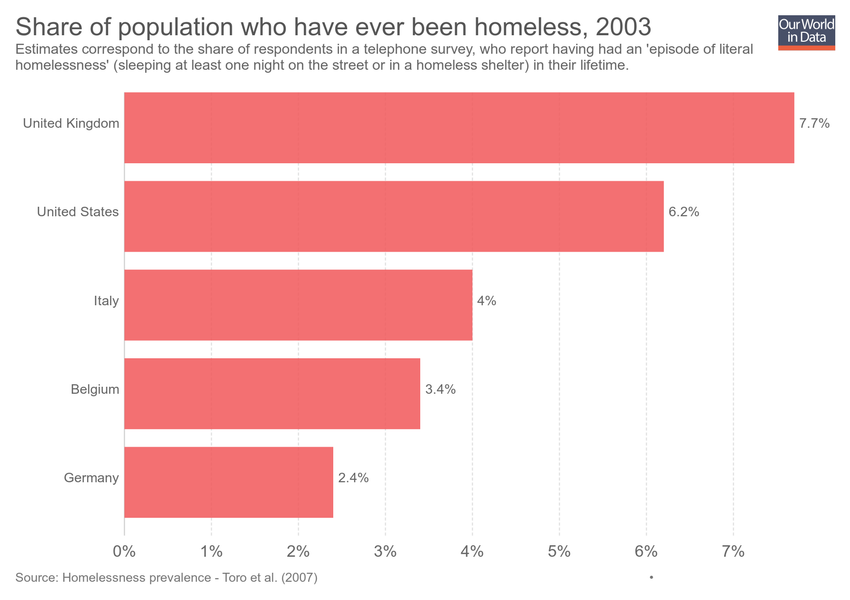
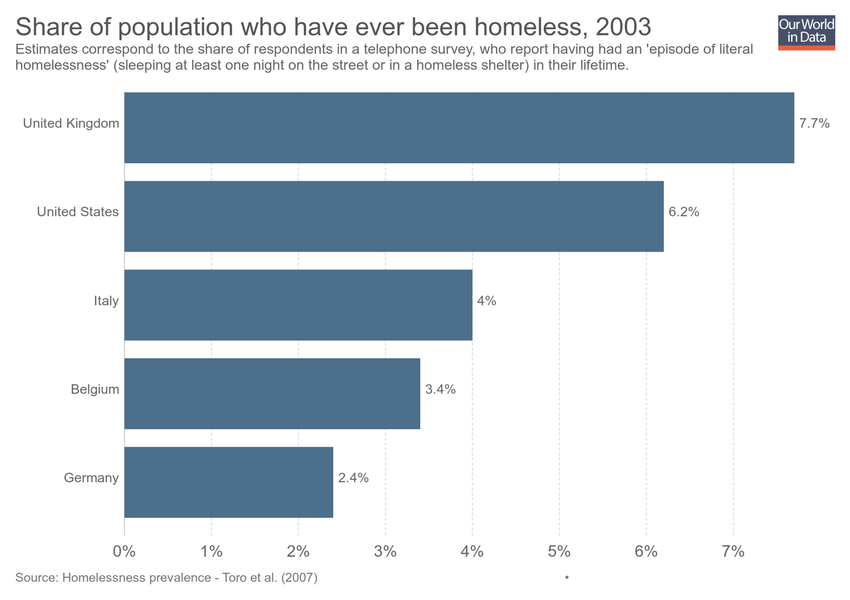
Updating chart share-of-population-who-have-ever-been-homeless-2003

Changed region(s): [[0.1224, 0.15, 0.9482, 0.42], [0.1224, 0.45, 0.5812, 0.87]]

diff --git a/grapher/share-of-population-who-have-ever-been-homeless-2003.html b/grapher/share-of-population-who-have-ever-been-homeless-2003.html
@@ -1,4 +1,4 @@
-<!doctype html><html><head><meta name="viewport" content="width=device-width, initial-scale=1" /><title>Share of population who have ever been homeless, 2003 - Our World in Data</title><meta name="description" content="Estimates correspond to the share of respondents in a telephone survey, who report having had an 'episode of literal homelessness' (sleeping at least one night on the street or in a homeless shelter) in their lifetime." /><link rel="canonical" href="https://ourworldindata.org/grapher/share-of-population-who-have-ever-been-homeless-2003" /><meta property="fb:app_id" content="1149943818390250" /><meta property="og:url" content="https://ourworldindata.org/grapher/share-of-population-who-have-ever-been-homeless-2003" /><meta property="og:title" content="Share of population who have ever been homeless, 2003" /><meta property="og:description" content="Estimates correspond to the share of respondents in a telephone survey, who report having had an 'episode of literal homelessness' (sleeping at least one night on the street or in a homeless shelter) in their lifetime." /><meta property="og:image" content="https://ourworldindata.org/grapher/exports/share-of-population-who-have-ever-been-homeless-2003.png?v=1" /><meta property="og:image:width" content="850" /><meta property="og:image:height" content="600" /><meta property="og:site_name" content="Our World in Data" /><meta name="twitter:card" content="summary_large_image" /><meta name="twitter:site" content="@OurWorldInData" /><meta name="twitter:creator" content="@OurWorldInData" /><meta name="twitter:title" content="Share of population who have ever been homeless, 2003" /><meta name="twitter:description" content="Estimates correspond to the share of respondents in a telephone survey, who report having had an 'episode of literal homelessness' (sleeping at least one night on the street or in a homeless shelter) in their lifetime." /><meta name="twitter:image" content="https://ourworldindata.org/grapher/exports/share-of-population-who-have-ever-been-homeless-2003.png?v=1" /><style>
+<!doctype html><html><head><meta name="viewport" content="width=device-width, initial-scale=1" /><title>Share of population who have ever been homeless, 2003 - Our World in Data</title><meta name="description" content="Estimates correspond to the share of respondents in a telephone survey, who report having had an 'episode of literal homelessness' (sleeping at least one night on the street or in a homeless shelter) in their lifetime." /><link rel="canonical" href="https://ourworldindata.org/grapher/share-of-population-who-have-ever-been-homeless-2003" /><meta property="fb:app_id" content="1149943818390250" /><meta property="og:url" content="https://ourworldindata.org/grapher/share-of-population-who-have-ever-been-homeless-2003" /><meta property="og:title" content="Share of population who have ever been homeless, 2003" /><meta property="og:description" content="Estimates correspond to the share of respondents in a telephone survey, who report having had an 'episode of literal homelessness' (sleeping at least one night on the street or in a homeless shelter) in their lifetime." /><meta property="og:image" content="https://ourworldindata.org/grapher/exports/share-of-population-who-have-ever-been-homeless-2003.png?v=2" /><meta property="og:image:width" content="850" /><meta property="og:image:height" content="600" /><meta property="og:site_name" content="Our World in Data" /><meta name="twitter:card" content="summary_large_image" /><meta name="twitter:site" content="@OurWorldInData" /><meta name="twitter:creator" content="@OurWorldInData" /><meta name="twitter:title" content="Share of population who have ever been homeless, 2003" /><meta name="twitter:description" content="Estimates correspond to the share of respondents in a telephone survey, who report having had an 'episode of literal homelessness' (sleeping at least one night on the street or in a homeless shelter) in their lifetime." /><meta name="twitter:image" content="https://ourworldindata.org/grapher/exports/share-of-population-who-have-ever-been-homeless-2003.png?v=2" /><style>
         html, body {
             height: 100%;
             margin: 0;
@@ -20,8 +20,8 @@
         }
     </style><noscript><style>
                     figure { display: none !important; }
-                </style></noscript><link rel="stylesheet" href="https://ourworldindata.org/grapher/assets/commons.bundle.dcbbe53805c487d5e57617b10ac73a8a.css" /><link rel="preload" href="/grapher/data/variables/1516.json?v=1" as="fetch" crossorigin /></head><body class="singleChart"><figure data-grapher-src="/grapher/share-of-population-who-have-ever-been-homeless-2003"></figure><noscript id="fallback"><img src="/grapher/exports/share-of-population-who-have-ever-been-homeless-2003.svg" /><p>Interactive visualization requires JavaScript</p></noscript><script src="https://cdn.polyfill.io/v2/polyfill.min.js?features=es6,fetch"></script><script src="https://ourworldindata.org/grapher/assets/commons.bundle.da523acc49807a06a11f.js"></script><script src="https://ourworldindata.org/grapher/assets/charts.bundle.da523acc49807a06a11f.js"></script><script>
-        var jsonConfig = {"id":425,"map":{"mode":"specific","projection":"World","targetYear":2003,"timeRanges":[],"variableId":1516,"defaultYear":2003,"isColorblind":false,"timelineMode":"slider","timeTolerance":10,"legendStepSize":20,"targetYearMode":"latest","baseColorScheme":"BuGn","colorSchemeInvert":false,"colorSchemeLabels":[],"colorSchemeValues":[],"defaultProjection":"World","legendDescription":"","legendOrientation":"portrait","customColorsActive":false,"customNumericColors":[],"customCategoryColors":[],"customCategoryLabels":[],"customHiddenCategories":[]},"tab":"chart","note":"","slug":"share-of-population-who-have-ever-been-homeless-2003","type":"DiscreteBar","logos":["OWD"],"title":"Share of population who have ever been homeless, 2003","units":"[{\"property\":\"y\",\"visible\":true,\"title\":\"\",\"unit\":\"%\",\"format\":\"\"}]","xAxis":{"scaleType":"linear"},"yAxis":{"suffix":"%","scaleType":"linear","labelDistance":-10},"margins":{"top":10,"left":60,"right":10,"bottom":10},"version":1,"subtitle":"Estimates correspond to the share of respondents in a telephone survey, who report having had an 'episode of literal homelessness' (sleeping at least one night on the street or in a homeless shelter) in their lifetime.","timeline":null,"hasMapTab":false,"originUrl":"https://ourworldindata.org/wp-content/uploads/2015/07/ourworldindata_wisc-iq-gains-over-time-flynn-2007.png","stackMode":null,"dimensions":[{"id":383,"order":0,"chartId":425,"display":{"name":"","unit":"%","tolerance":5,"isProjection":false},"property":"y","targetYear":null,"variableId":1516}],"entityType":"country","hideLegend":false,"hasChartTab":true,"isPublished":true,"selectedData":[{"index":0,"entityId":13},{"index":0,"entityId":8},{"index":0,"entityId":6},{"index":0,"entityId":4},{"index":0,"entityId":1}],"internalNotes":"","addCountryMode":"disabled","activeLegendKeys":null,"group-by-variables":false,"hideRelativeToggle":false,"hideTitleAnnotation":true};
+                </style></noscript><link rel="stylesheet" href="https://ourworldindata.org/grapher/assets/commons.bundle.dcbbe53805c487d5e57617b10ac73a8a.css" /><link rel="preload" href="/grapher/data/variables/1516.json?v=2" as="fetch" crossorigin /></head><body class="singleChart"><figure data-grapher-src="/grapher/share-of-population-who-have-ever-been-homeless-2003"></figure><noscript id="fallback"><img src="/grapher/exports/share-of-population-who-have-ever-been-homeless-2003.svg" /><p>Interactive visualization requires JavaScript</p></noscript><script src="https://cdn.polyfill.io/v2/polyfill.min.js?features=es6,fetch"></script><script src="https://ourworldindata.org/grapher/assets/commons.bundle.da523acc49807a06a11f.js"></script><script src="https://ourworldindata.org/grapher/assets/charts.bundle.da523acc49807a06a11f.js"></script><script>
+        var jsonConfig = {"id":425,"map":{"projection":"World","targetYear":2003,"variableId":1516,"timeTolerance":10,"baseColorScheme":"BuGn","colorSchemeInvert":false,"colorSchemeLabels":[],"colorSchemeValues":[],"legendDescription":"","customColorsActive":false,"customNumericColors":[],"customCategoryColors":[],"customCategoryLabels":[],"customHiddenCategories":[]},"tab":"chart","note":"","slug":"share-of-population-who-have-ever-been-homeless-2003","type":"DiscreteBar","title":"Share of population who have ever been homeless, 2003","xAxis":{"scaleType":"linear"},"yAxis":{"suffix":"%","scaleType":"linear","labelDistance":-10},"version":2,"subtitle":"Estimates correspond to the share of respondents in a telephone survey, who report having had an 'episode of literal homelessness' (sleeping at least one night on the street or in a homeless shelter) in their lifetime.","hasMapTab":false,"originUrl":"https://ourworldindata.org/homelessness","stackMode":null,"dimensions":[{"display":{"name":"","unit":"%","tolerance":5,"isProjection":false},"property":"y","variableId":1516}],"entityType":"country","hideLegend":false,"hasChartTab":true,"isPublished":true,"selectedData":[{"index":0,"entityId":13},{"index":0,"entityId":8},{"index":0,"entityId":6},{"index":0,"entityId":4},{"index":0,"entityId":1}],"internalNotes":"","addCountryMode":"disabled","hideRelativeToggle":false,"hideTitleAnnotation":true};
         var figure = document.getElementsByTagName("figure")[0];
         try {
             window.App = {};
